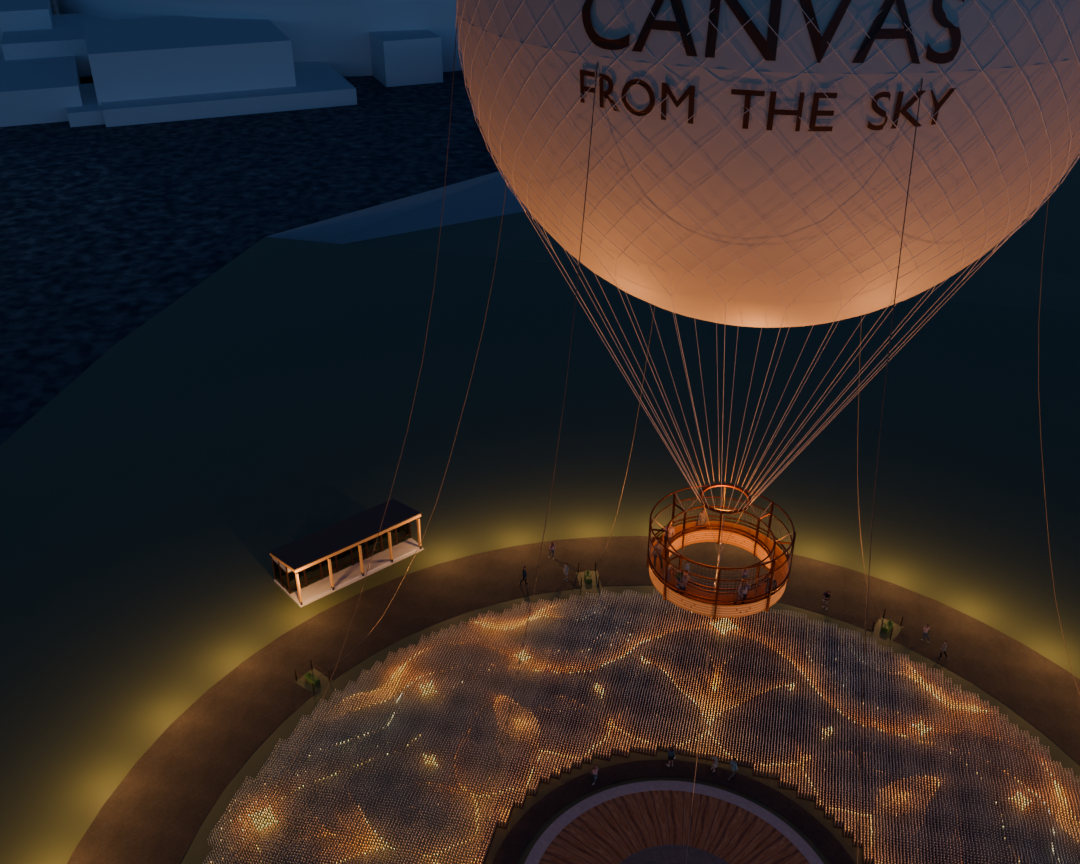
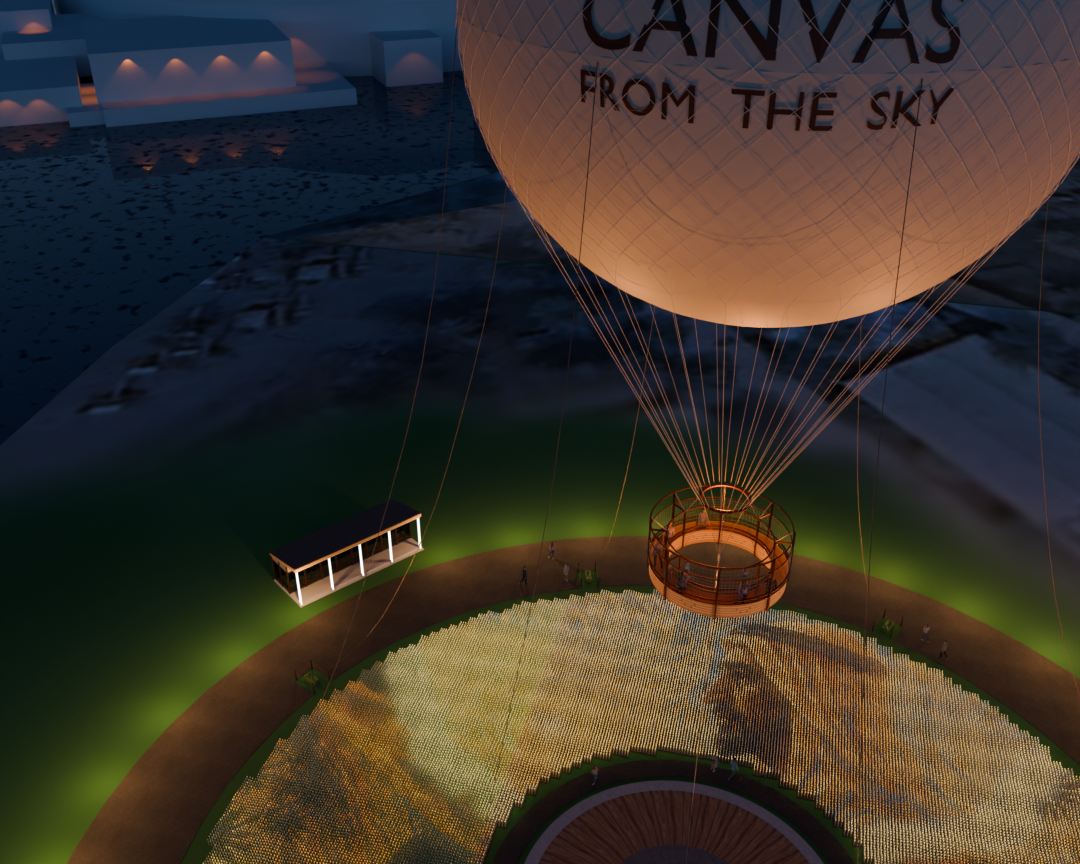
Add per-state overlay layer + restart-via-drag at Finale
- New <img class="exp-state-overlay"> layered above each state image. CSS-only fade: opacity transitions to 1 over 1s when the viewer is idle (.exp-viewer:not(.is-animating)) and back to 0 the moment a transition starts. Overlay sits at full opacity through the entire idle hold instead of fading out mid-state.
- Altitude indicator bumped to z-index: 3 so the slider, balloon icon, drag tip, and altitude labels remain above the overlay artwork.
- State 5 (Finale) drag now restarts the loop back to state 0; dragDir extended to [-1, -1, 1, 1, 1, -1] and hint reads "↑ restart". Drag handler wraps activeStep === 5 → goToStep(0) instead of locking out interaction.
- STATE_HOLD_MS bumped to 7s and RESTART_DELAY to 7s for consistent overlay viewing time across the cycle.
- Preloader extended to fetch all six overlay images alongside state images and frame sequences.

Includes the matching 3 new overlay PNGs (state_04/05/06_Overlay) and an updated state_05_main_show_25m base image.

diff --git a/index.html b/index.html
@@ -317,6 +317,16 @@
     #experience .exp-trans-fg {
       position: absolute; inset: 0; width: 100%; height: 100%; object-fit: cover;
     }
+    /* Per-state overlay — fades in (1s) when the state settles, stays visible
+       through the idle hold, fades out (1s) the moment a transition begins. */
+    #experience .exp-state-overlay {
+      position: absolute; inset: 0; width: 100%; height: 100%;
+      object-fit: cover; opacity: 0; pointer-events: none; z-index: 1;
+      transition: opacity 1s ease-in-out;
+    }
+    #experience .exp-viewer:not(.is-animating) .exp-state-overlay.has-src {
+      opacity: 1;
+    }
     #experience .exp-panel-content {
       background: var(--bg-card); flex: 1; border-top: 1px solid var(--border);
     }
@@ -336,6 +346,7 @@
     /* Altitude indicator — overlaid on right edge of viewer */
     #experience .alt-indicator {
       position: absolute; top: 0; right: 0; bottom: 0; width: 78px;
+      z-index: 3; /* above .exp-state-overlay (z-index 1) */
       background: rgba(10,10,15,0.52);
       backdrop-filter: blur(4px); -webkit-backdrop-filter: blur(4px);
       border-left: 1px solid rgba(201,169,110,0.18);
@@ -913,6 +924,7 @@
               <img class="exp-trans-bg" id="expTransBg" src="" alt="" />
               <img class="exp-trans-fg" id="expTransFg" src="" alt="" />
             </div>
+            <img class="exp-state-overlay" id="expStateOverlay" src="" alt="" />
 
             <!-- Altitude indicator — right side overlay -->
             <div class="alt-indicator">
@@ -1724,6 +1736,16 @@
         BASE + 'state_06_exit.png',
       ];
 
+      // Per-state overlay images — fade in/hold/fade out on top of the state image
+      var overlaySrcs = [
+        BASE + 'state_01_arrival_Overlay.png',
+        BASE + 'state_02_boarding_ascent_Overlay.png',
+        BASE + 'state_03_peak_300m_Overlay.png',
+        BASE + 'state_04_descent_Overlay.png',
+        BASE + 'state_05_main_show_25m_Overlay.png',
+        BASE + 'state_06_exit_Overlay.png',
+      ];
+
       // Frame numbers for each transition (state N → N+1)
       var transitions = [
         range(2,  15),   // 0→1  Arrival → Boarding
@@ -1741,8 +1763,8 @@
       // Drag direction required to advance each state: −1 = drag up, +1 = drag down
       // Mirrors the indicator movement: ascending → icon goes up → drag up; descending → drag down
       var FRAME_MS = 220; // ms per frame — controls both playback speed and icon sync
-      var dragDir  = [-1, -1, 1, 1, 1]; // indices 0–4 (state 5 is terminal)
-      var hints   = ['↑ drag', '↑ drag', '↓ drag', '↓ drag', '↓ drag', ''];
+      var dragDir  = [-1, -1, 1, 1, 1, -1]; // state 5: drag up to restart back to state 0
+      var hints   = ['↑ drag', '↑ drag', '↓ drag', '↓ drag', '↓ drag', '↑ restart'];
 
       // DOM
       var stepBtns    = document.querySelectorAll('.exp-step-btn');
@@ -1753,18 +1775,19 @@
       var transFg     = document.getElementById('expTransFg');
       var altBalloon  = document.getElementById('altBalloon');
       var altDragTip  = document.getElementById('altDragTip');
+      var stateOverlay = document.getElementById('expStateOverlay');
       var expViewer   = stateImg.parentElement; // .exp-viewer — toggles is-animating
 
       var activeStep  = 0;
       var isAnimating = false;
       var frameTimer  = null;
       var restartTimer = null;
-      var RESTART_DELAY = 4500; // ms — pause on Finale before auto-restart
+      var RESTART_DELAY = 7000; // ms — pause on Finale before auto-restart (matches state hold)
 
       // Auto-play: cycles through the journey in the background until the user takes control
       var autoPlayActive   = true;
       var autoAdvanceTimer = null;
-      var STATE_HOLD_MS    = 5000; // ms each state stays put before auto-advancing
+      var STATE_HOLD_MS    = 7000; // ms each state stays put — matches overlay 2s+3s+2s fade cycle
 
       function updateNav(step) {
         stepBtns.forEach(function(b) { b.classList.toggle('active', +b.dataset.step === step); });
@@ -1779,6 +1802,8 @@
       function showState(step) {
         stateImg.src           = stateSrcs[step];
         stateImg.style.opacity = '1';
+        stateOverlay.src       = overlaySrcs[step];
+        stateOverlay.classList.add('has-src');
         transLayers.classList.remove('active');
         expViewer.classList.remove('is-animating');
         activeStep  = step;
@@ -1861,6 +1886,8 @@
           setTimeout(function () {
             stateImg.src           = stateSrcs[newStep];
             stateImg.style.opacity = '1';
+            stateOverlay.src       = overlaySrcs[newStep];
+            stateOverlay.classList.add('has-src');
             transLayers.classList.remove('active');
             expViewer.classList.remove('is-animating');
             activeStep  = newStep;
@@ -1894,10 +1921,11 @@
         isDragging = false;
         var delta = e.clientY - dragStartY;
         dragStartY = null;
-        if (activeStep >= 5 || isAnimating) return;
+        if (isAnimating) return;
         var dir = dragDir[activeStep];
-        if (dir === -1 && delta < -DRAG_THRESHOLD) { stopAutoPlay(); goToStep(activeStep + 1); }
-        if (dir ===  1 && delta >  DRAG_THRESHOLD) { stopAutoPlay(); goToStep(activeStep + 1); }
+        var nextStep = activeStep === 5 ? 0 : activeStep + 1; // wrap from Finale → Arrival
+        if (dir === -1 && delta < -DRAG_THRESHOLD) { stopAutoPlay(); goToStep(nextStep); }
+        if (dir ===  1 && delta >  DRAG_THRESHOLD) { stopAutoPlay(); goToStep(nextStep); }
       });
 
       altBalloon.addEventListener('pointercancel', function () {
@@ -1905,18 +1933,22 @@
       });
 
       // Init
-      stateImg.src = stateSrcs[0];
+      stateImg.src     = stateSrcs[0];
+      stateOverlay.src = overlaySrcs[0];
+      stateOverlay.classList.add('has-src');
       setAltitude(0);
 
-      // Start auto-play after a brief settle time so the preload has a head start
-      scheduleAutoAdvance(3500);
+      // Start auto-play — first state holds the full STATE_HOLD_MS so the overlay's
+      // 2s+3s+2s fade cycle can complete before the first transition fires.
+      scheduleAutoAdvance(STATE_HOLD_MS);
 
-      // Background preload — fetch every state image + every transition frame
-      // so they're cached in memory by the time investors scroll to this section.
+      // Background preload — fetch every state image, every overlay, and every
+      // transition frame so they're cached by the time investors scroll to this section.
       // Runs after the browser has finished critical hero rendering.
       function preloadAllAssets() {
         for (var i = 1; i < stateSrcs.length; i++) {
           (new Image()).src = stateSrcs[i];
+          (new Image()).src = overlaySrcs[i];
         }
         for (var t = 0; t < transitions.length; t++) {
           var fNums = transitions[t];
